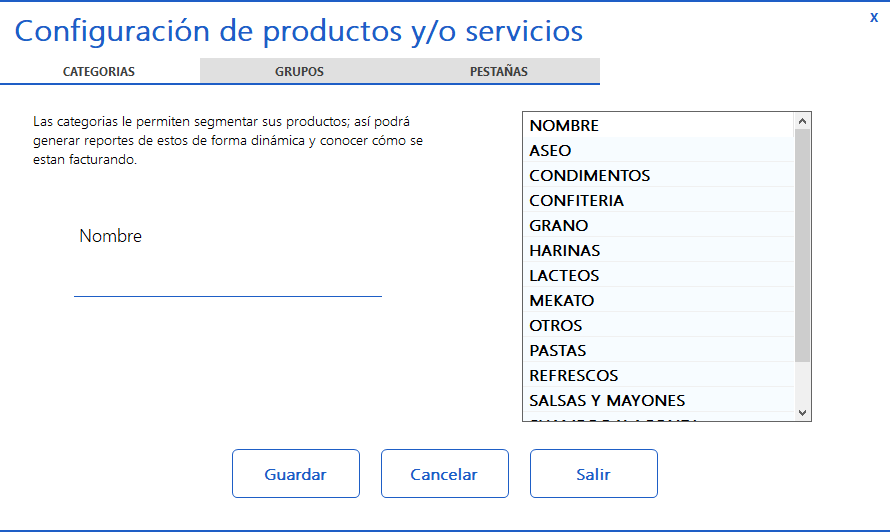
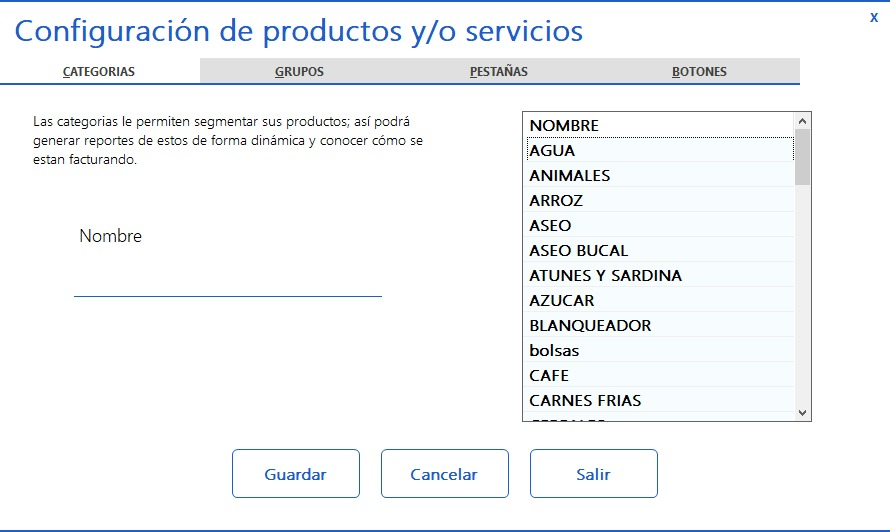
add information "buttons" and also something else

diff --git a/docs/sistemas/configuracion.md b/docs/sistemas/configuracion.md
@@ -50,7 +50,7 @@ Permite la creación de categorías, grupos y pestañas para posteriormente ser 
 
 * #### PESTAÑAS
 
-Permite la creación o modificación de pestañas para posteriormente ser asignadas a los productos según corresponda.
+Permite la creación, modificación y orden de las pestañas para posteriormente ser asignadas a los productos según corresponda.
 
 ![](/img/configuracion/configuracion_pestañas_productos.png)
 
@@ -58,6 +58,12 @@ Permite la creación o modificación de pestañas para posteriormente ser asigna
 El límite máximo para el nombre de una pestaña es de 20 caracteres, incluyendo espacios.
 
 :::
+
+* #### BOTONES
+
+Permite personalizar el orden de los botones de los productos en cada pestaña seleccionada, de acuerdo a sus preferencias.
+
+![](/img/configuracion/configuracion_botones_productos.png)
 
 ### 4\. Sistema
 
